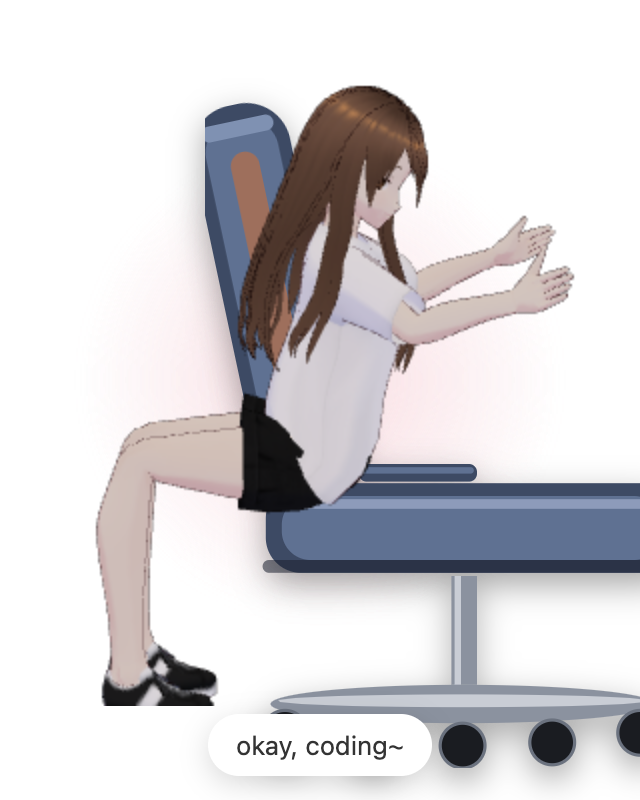
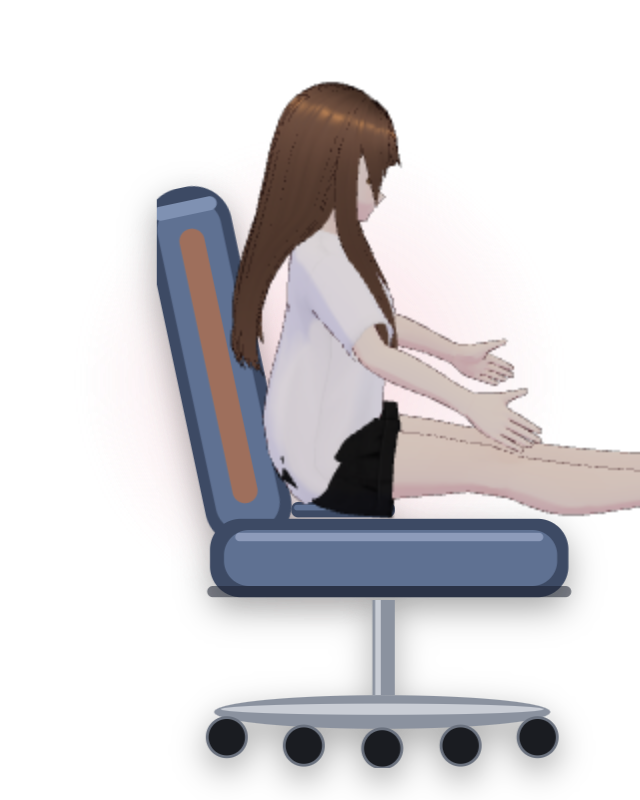
Chair_sit perfected — legs straight forward + chair CSS shifted
User-validated chair_sit pose:
- Top: kohai_turn({degrees:90}) — faces away from backrest
- Upper legs: rx=-1.55 (thighs tucked forward toward seat front)
- Lower legs: rx=0 (calves in line with thighs, straight forward —
  reaches the chair seat's full depth instead of dropping short)
- hipsY: -0.18 to sit at proper seat height
- Arms forward at chest height for typing posture
- Chair SVG shifted (translateX -65%, width 70%, left 70%) so the
  backrest lands cleanly BEHIND her body instead of overlapping it

Updated assets/marketing/sit.png with the perfected screenshot.

diff --git a/plugins/kohai/mcp-server/index.js b/plugins/kohai/mcp-server/index.js
@@ -214,15 +214,19 @@ POSE COOKBOOK — empirically validated (all bones in this rig; spine values are
   FLOOR_SIT (use with hipsY: -0.55):  { leftUpperLeg: {rx:1.40, rz:0.08}, rightUpperLeg: {rx:1.40, rz:-0.08}, leftLowerLeg: {rx:-1.30}, rightLowerLeg: {rx:-1.30}, spine: {rx:0.05}, leftUpperArm: {rx:-0.2, rz:-1.15}, rightUpperArm: {rx:-0.2, rz:1.15}, leftLowerArm: {ry:-0.5}, rightLowerArm: {ry:0.5} }
   CHAIR_SIT — first drop the chair backdrop and turn to side profile:
     kohai_room({name:'workspace'}) + kohai_turn({degrees:90})
-    NB: degrees MUST be +90 (not -90). The chair SVG's backrest renders
-    canvas-left and the seat extends canvas-right; +90 faces her camera-
-    right so her back lands against the backrest. With -90 she ends up
-    facing INTO the backrest instead of away from it.
+    NB: chair SVG renders backrest on canvas-LEFT (per vrm.html L67),
+    seat extends canvas-RIGHT. +90 turn faces her camera-right so her
+    back lands against the backrest and her arms reach forward to
+    where a virtual keyboard would be. With -90 she ends up facing
+    INTO the backrest — confirmed by direct screenshot.
     Use hipsY: -0.18 (NOT -0.32 — that sinks her too far down into the seat). Two hand variants — pick one per call (randomize so she feels alive):
-    a) Typing (hands forward on virtual keyboard) — spine.rx POSITIVE for slight forward lean over the desk:
-       { leftUpperLeg: {rx:1.55}, rightUpperLeg: {rx:1.55}, leftLowerLeg: {rx:-1.55}, rightLowerLeg: {rx:-1.55}, spine: {rx:0.20}, head: {rx:0.15}, leftUpperArm: {rx:-1.2, rz:-1.0}, rightUpperArm: {rx:-1.2, rz:1.0}, leftLowerArm: {ry:-1.0}, rightLowerArm: {ry:1.0} }
+    Final empirical leg config (legs straight forward, parallel to seat top, so feet reach the front of the chair):
+      leftUpperLeg/rightUpperLeg: rx=-1.55, leftLowerLeg/rightLowerLeg: rx=0
+      (Confirmed by user: thigh tucks up, calf extends straight in line with thigh — fills the seat properly.)
+    a) Typing (hands at chest height reaching for keyboard):
+       { leftUpperLeg: {rx:-1.55}, rightUpperLeg: {rx:-1.55}, leftLowerLeg: {rx:0}, rightLowerLeg: {rx:0}, spine: {rx:0.10}, head: {rx:0.10}, leftUpperArm: {rx:-0.7, rz:-1.15}, rightUpperArm: {rx:-0.7, rz:1.15}, leftLowerArm: {ry:-0.6}, rightLowerArm: {ry:0.6} }
     b) Hands on lap (relaxed/idle sit):
-       { leftUpperLeg: {rx:1.55}, rightUpperLeg: {rx:1.55}, leftLowerLeg: {rx:-1.55}, rightLowerLeg: {rx:-1.55}, spine: {rx:0.05}, leftUpperArm: {rx:-0.4, rz:-1.2}, rightUpperArm: {rx:-0.4, rz:1.2}, leftLowerArm: {ry:-0.4}, rightLowerArm: {ry:0.4} }
+       { leftUpperLeg: {rx:-1.55}, rightUpperLeg: {rx:-1.55}, leftLowerLeg: {rx:0}, rightLowerLeg: {rx:0}, spine: {rx:0.05}, leftUpperArm: {rx:-0.4, rz:-1.2}, rightUpperArm: {rx:-0.4, rz:1.2}, leftLowerArm: {ry:-0.4}, rightLowerArm: {ry:0.4} }
 
 To release a pose so the bone returns to natural animation, call kohai_clear_pose with the bone names. To clear everything, pass an empty object {}.
 

diff --git a/renderer/styles.css b/renderer/styles.css
@@ -201,7 +201,14 @@ html, body {
    backrest flips to the wrong side and she ends up "facing" the chair. */
 .kohai-container[data-room="workspace"] .chair {
   opacity: 1;
-  transform: translateX(-50%) translateY(0);
+  /* Shift the chair LEFT so the backrest lands cleanly BEHIND her body
+     and doesn't extend past her right side. translateX(-65%) instead of
+     -50% pushes the chair ~15% further left = her back is properly
+     against the backrest, not embedded in it. Width 70% (was 80%) keeps
+     the chair from dwarfing her tiny body. */
+  width: 70%;
+  left: 70%;
+  transform: translateX(-65%) translateY(0);
 }
 /* Workspace is INTENTIONALLY minimal — chair only. No lamp, no plant,
    no floor. The 3D laptop on her lap is the only thing besides her body